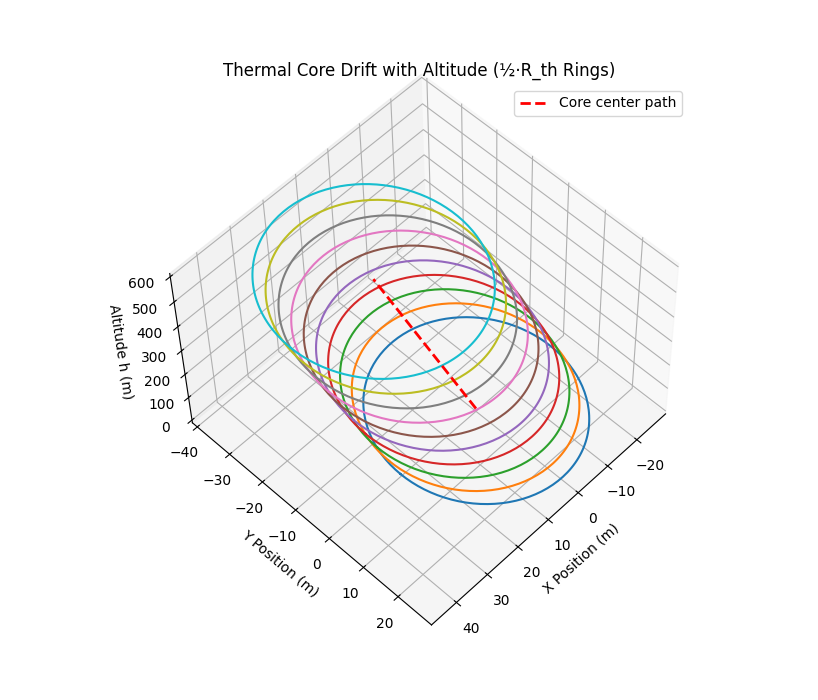
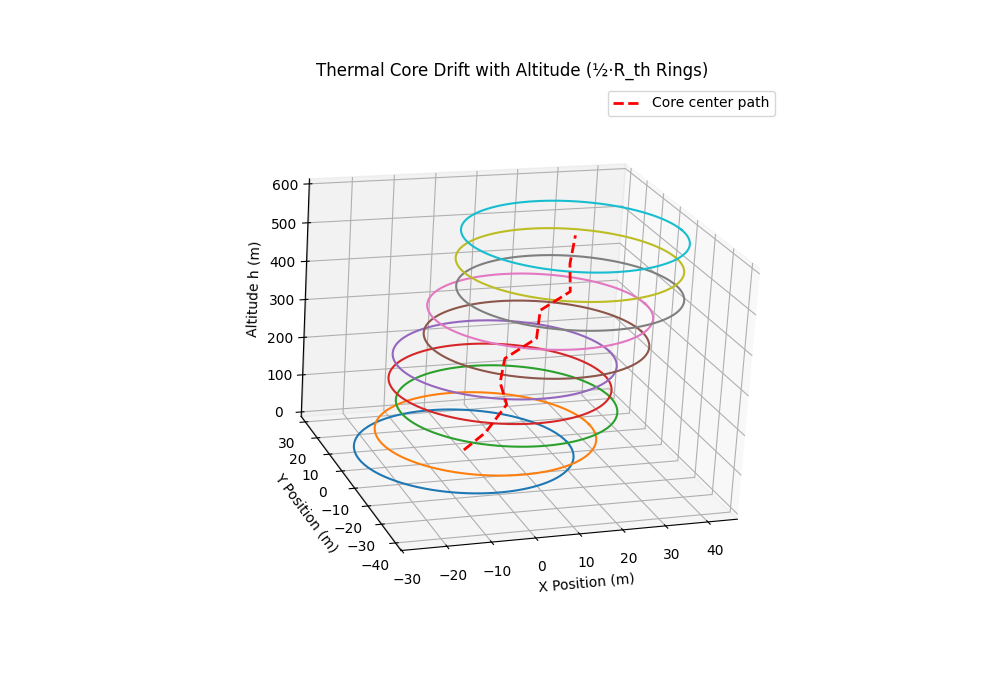
Update thermal model to have random walk noise

diff --git a/thermal_model/thermal_model.py b/thermal_model/thermal_model.py
@@ -3,7 +3,7 @@ import matplotlib.pyplot as plt
 from mpl_toolkits.mplot3d import Axes3D  # noqa: F401 (import registers 3D projection)
 
 class ThermalModel:
-    def __init__(self, w_max, r_th, x_th, y_th, V_e, kx=0.0, ky=0.0):
+    def __init__(self, w_max, r_th, x_th, y_th, V_e, kx, ky, core_center_random_noise_std):
         self.w_max = w_max  # Maximum thermal uplift (m/s)
         self.r_th = r_th    # Thermal radius (m)
         self.x_th = x_th    # Thermal center x position at h=0 (m)
@@ -12,6 +12,9 @@ class ThermalModel:
         self.kx = kx        # Core x drift per meter altitude (m/m)
         self.ky = ky        # Core y drift per meter altitude (m/m)
 
+        self.core_center_random_noise_mean = 0.0  # always zero mean
+        self.core_center_random_noise_std = core_center_random_noise_std  # std dev of random noise added to core center (m)
+
         assert self.w_max > 0, "w_max must be positive."
         assert self.r_th > 1, "r_th must be positive and greater than 1."
         assert self.V_e >= 0, "V_e must be non-negative."
@@ -19,8 +22,10 @@ class ThermalModel:
     def core_center_at_height(self, h):
         # Linear drift of core center with altitude
         # could incorporate wind shear model but keeping it simple for now
-        x_c = self.x_th + self.kx * h
-        y_c = self.y_th + self.ky * h
+        eta_x = np.random.normal(self.core_center_random_noise_mean, self.core_center_random_noise_std)
+        eta_y = np.random.normal(self.core_center_random_noise_mean, self.core_center_random_noise_std)
+        x_c = self.x_th + self.kx * h + eta_x
+        y_c = self.y_th + self.ky * h + eta_y
         return x_c, y_c
 
     def get_thermal_uplift(self, x, y, h):
@@ -34,7 +39,7 @@ class ThermalModel:
 
 if __name__ == "__main__":
     # Example with slight tilt: 0.03 m drift in x and -0.02 m in y per meter climb
-    thermal = ThermalModel(w_max=5.0, r_th=50.0, x_th=0.0, y_th=0.0, V_e=1.0, kx=0.03, ky=-0.02)
+    thermal = ThermalModel(w_max=5.0, r_th=50.0, x_th=0.0, y_th=0.0, V_e=1.0, kx=0.03, ky=-0.02, core_center_random_noise_std=2.0)
 
     # grid
     x = np.linspace(-150, 150, 100)

diff --git a/thermal_model/readme.md b/thermal_model/readme.md
@@ -8,7 +8,8 @@ w_{\text{pred}}(r) = \big(w_{th} + V_e\big) \;
 $$
 
 ## Core Centering Model
-The thermal core is assumed to drift linearly with altitude, with drift rates $k_x$ and $k_y$ in the x and y directions respectively. The core center at altitude $h$ is given by:
+The thermal core is assumed to drift linearly with altitude, with drift rates $k_x$ and $k_y$ in the x and y directions respectively. Additionally, a small random noise component is added to the core position at each altitude with zero mean.
+The core center at altitude $h$ is given by:
 
 $$
 x_c(h) = x_{th} + k_x \cdot h
